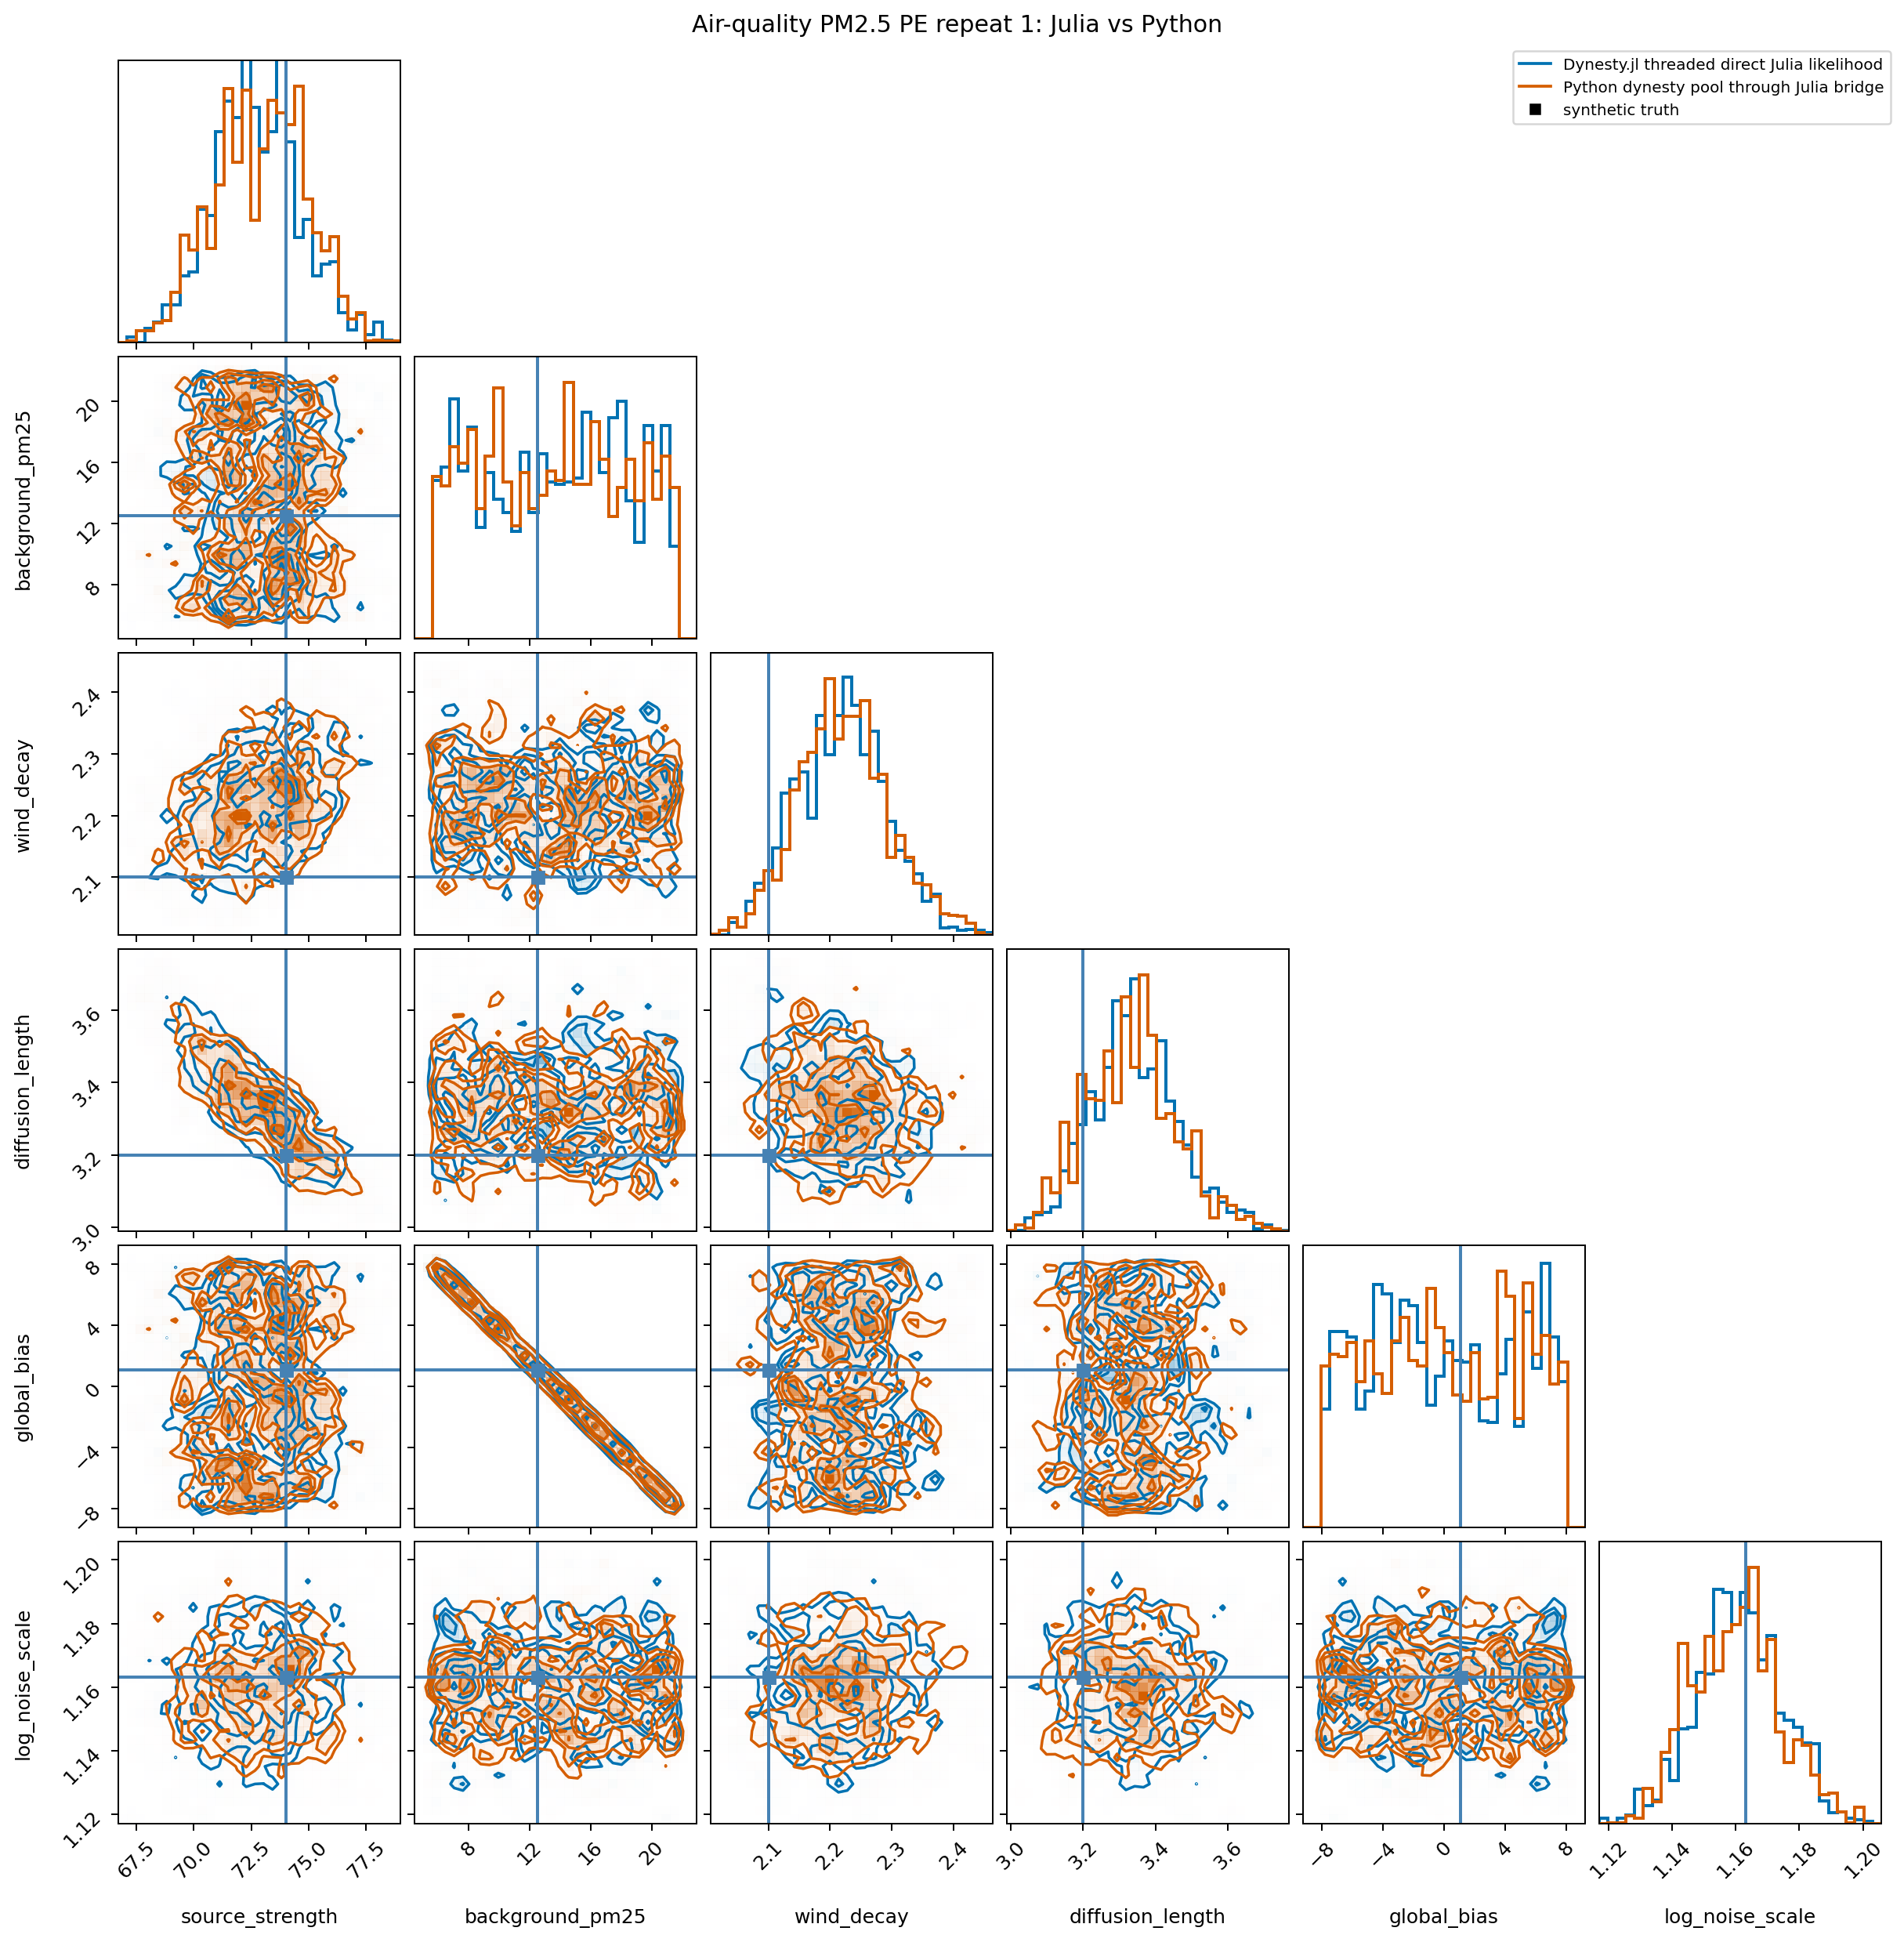
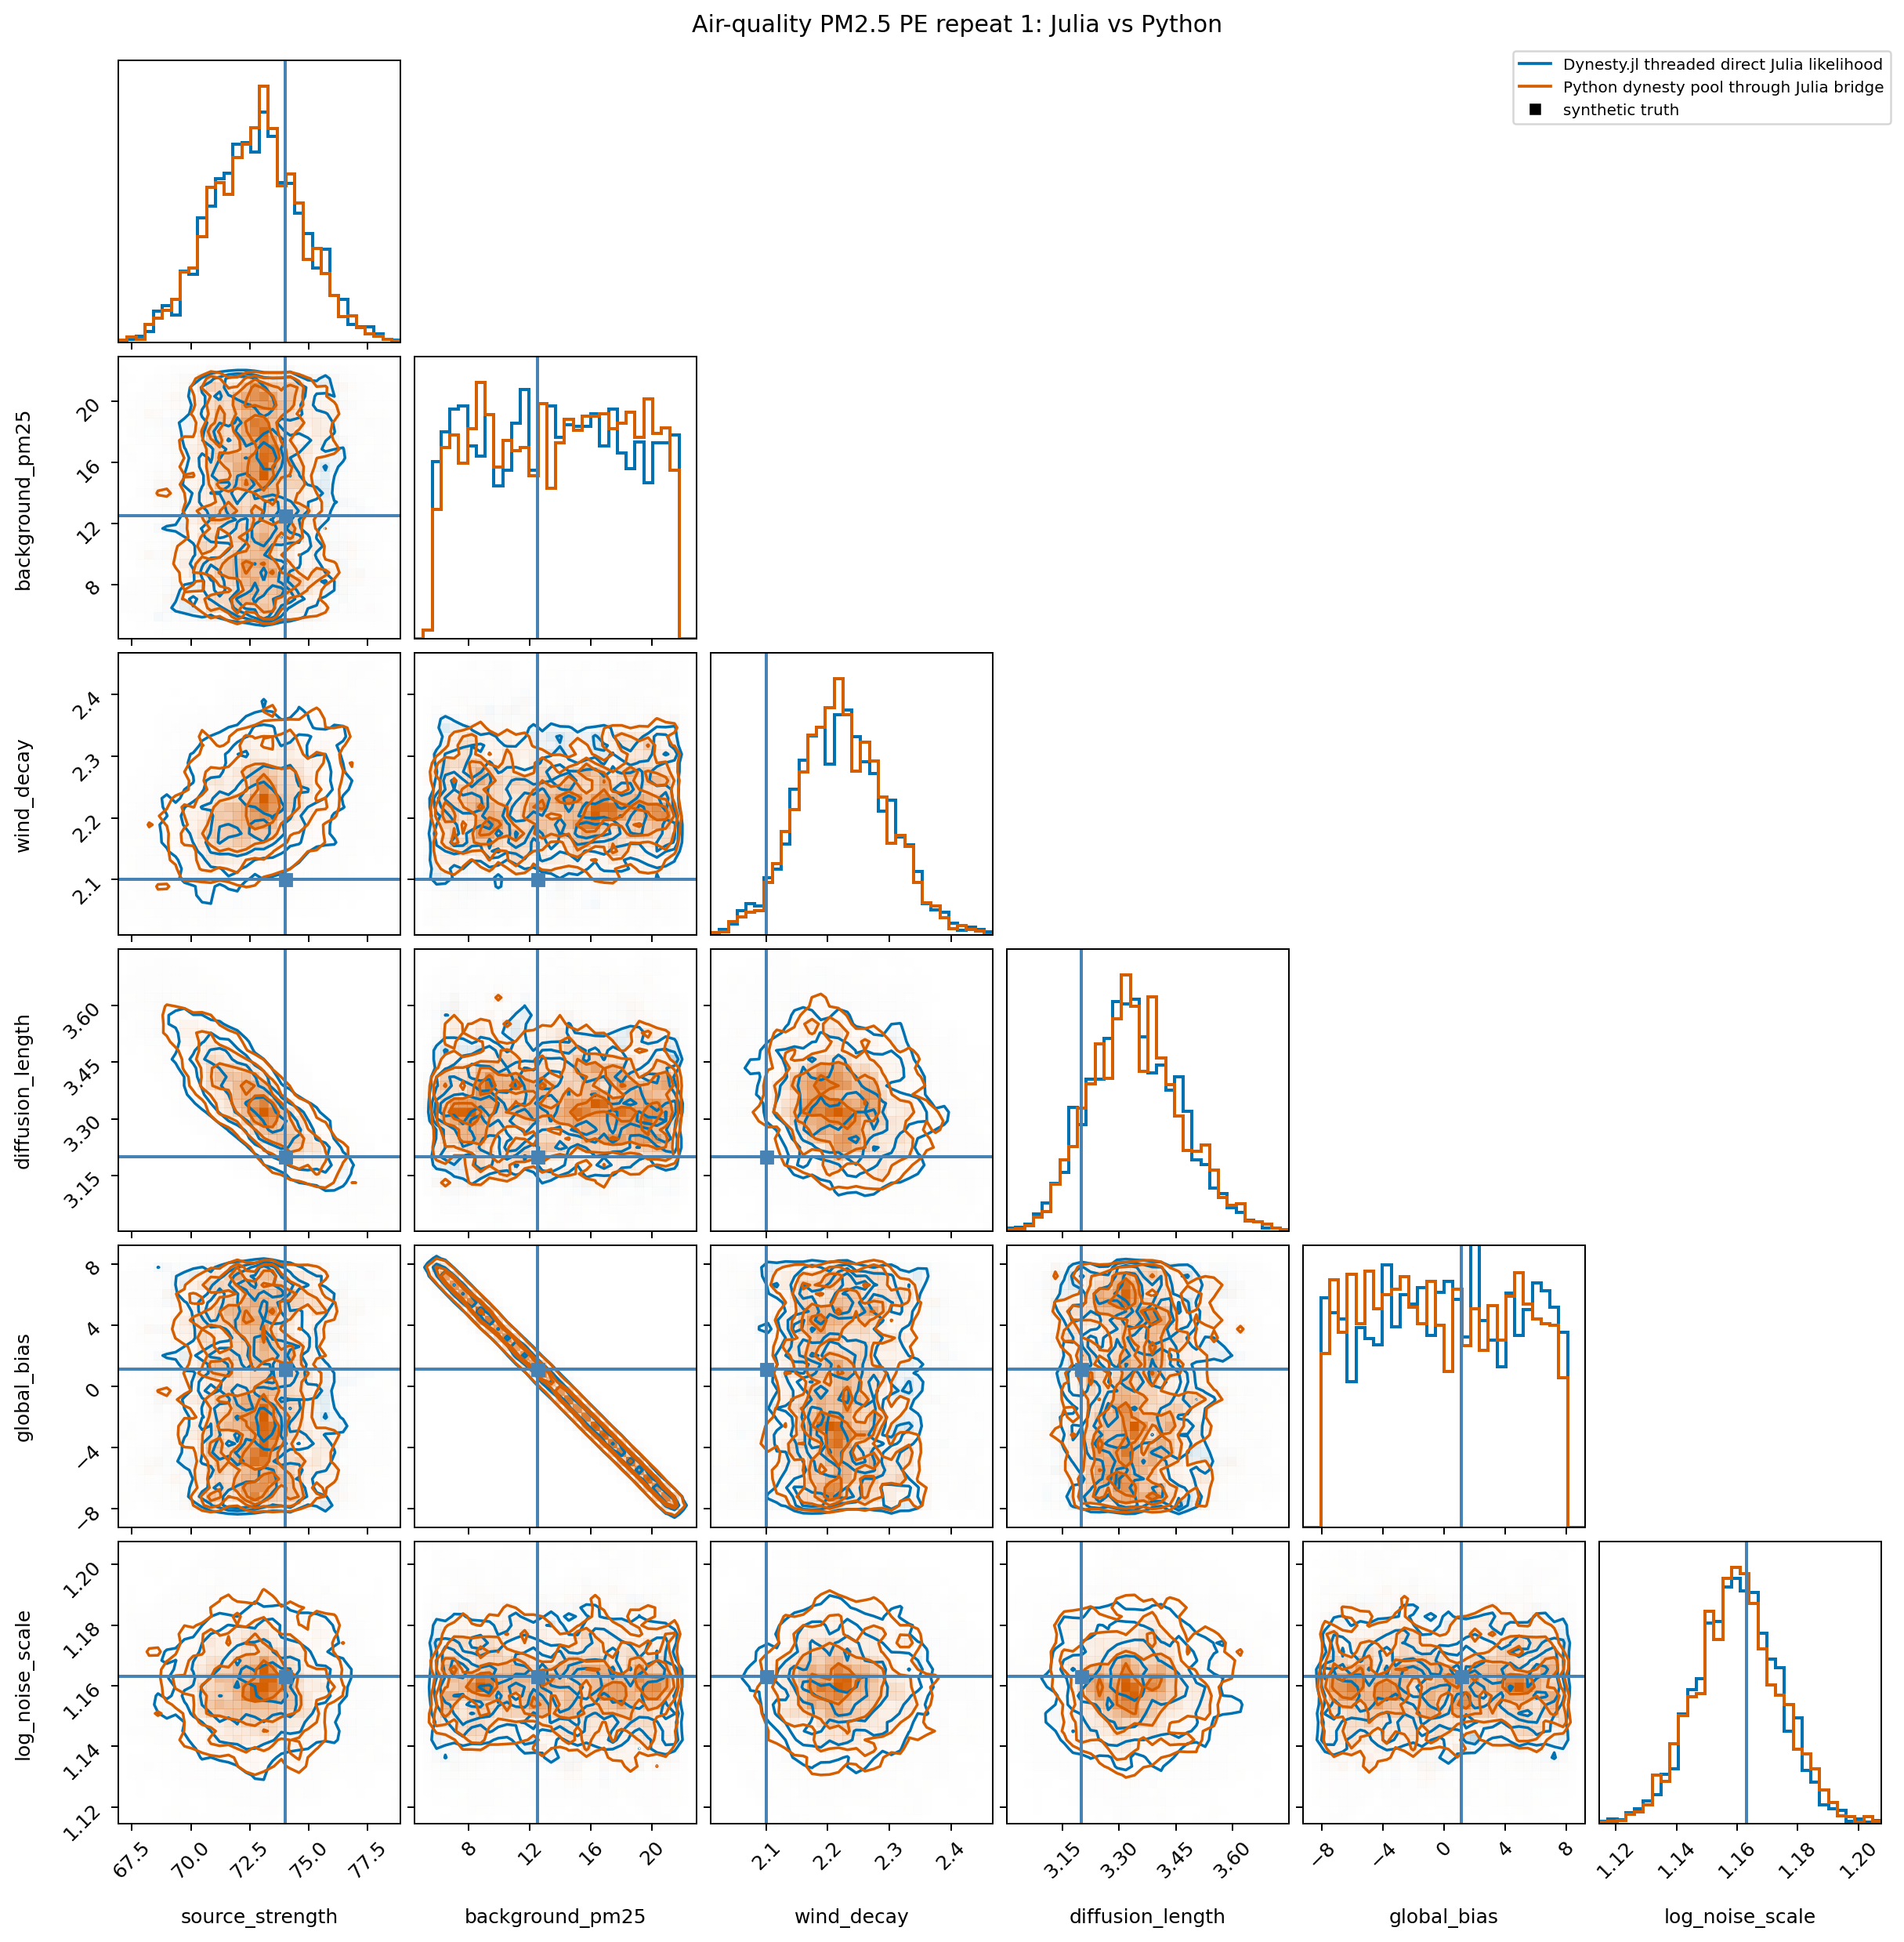
Update air-quality PE formal results

diff --git a/docs/test_report/main.tex b/docs/test_report/main.tex
@@ -37,7 +37,7 @@
 \maketitle
 
 \begin{abstract}
-本报告汇总了当前 \code{Dynesty.jl} 工作树在 Julia 默认测试套件、示例脚本、parallel map backend、Python fixture 兼容性、benchmark runner、Python 脚本语法检查、formal parallel cost benchmark 审计、真实空气质量 PE smoke benchmark，以及 LaTeX 编译链路上的验证结果。常规 Julia 测试通过 \code{julia --project=. -e 'using Pkg; Pkg.test()'} 全量执行并通过；formal parallel cost benchmark 复用已经完成的 \code{examples/output/parallel_cost_compare} 输出，审计确认其为 \code{mode == "formal"}、18 个 run 全部 \code{ok}、9 个 \code{corner_overlay} posterior overlay plot 全部 \code{ok}，且所有 run 均使用 \code{/usr/bin/time -v} 并记录 process-tree RSS/PSS 内存字段。新增空气质量 benchmark 使用 synthetic PM2.5 sensor calibration/source-strength inverse problem，likelihood 仅在 Julia 中实现，Julia runner 直接调用该 likelihood，Python dynesty 通过 PyJulia bridge 调用同一个 Julia likelihood；当前环境缺失 \code{/usr/bin/time}，因此空气质量 formal benchmark gate 未满足，但 0.01s 量级 likelihood smoke 已完成并生成 posterior overlay 图。
+本报告汇总了当前 \code{Dynesty.jl} 工作树在 Julia 默认测试套件、示例脚本、parallel map backend、Python fixture 兼容性、benchmark runner、Python 脚本语法检查、formal parallel cost benchmark 审计、真实空气质量 PE documented scaled formal benchmark，以及 LaTeX 编译链路上的验证结果。常规 Julia 测试通过 \code{julia --project=. -e 'using Pkg; Pkg.test()'} 全量执行并通过；formal parallel cost benchmark 复用已经完成的 \code{examples/output/parallel_cost_compare} 输出，审计确认其为 \code{mode == "formal"}、18 个 run 全部 \code{ok}、9 个 \code{corner_overlay} posterior overlay plot 全部 \code{ok}，且所有 run 均使用 \code{/usr/bin/time -v} 并记录 process-tree RSS/PSS 内存字段。新增空气质量 benchmark 使用 synthetic PM2.5 sensor calibration/source-strength inverse problem，likelihood 仅在 Julia 中实现，Julia runner 直接调用该 likelihood，Python dynesty 通过 PyJulia bridge 调用同一个 Julia likelihood；当前环境通过临时 mount namespace 暴露 GNU \code{/usr/bin/time -v}，完成 \code{nlive=500}、\code{dlogz=0.08}、2 repeats、31 workers 的 documented scaled formal run，并生成 posterior overlay 图。
 \end{abstract}
 
 \tableofcontents
@@ -63,8 +63,8 @@ Python & \code{3.9.18}; executable: \pathcode{/home/czc/opt/miniconda3/bin/pytho
 \code{MKL_NUM_THREADS} & formal benchmark summary 记录为 \code{1}; 当前 shell 探针为 \code{1}。 \\
 Python dynesty source path & \pathcode{../dynesty/py}; 解析到 \pathcode{/home/czc/projects/working/dynesty/py}; 只读引用。 \\
 正式 parallel benchmark & Julia 31 threads vs Python 31 multiprocessing worker processes; \code{queue_size=31}, \code{nlive=1500}, \code{dlogz=0.02}。 \\
-空气质量 PE smoke & Julia 31 threads direct Julia likelihood vs Python dynesty 4 worker processes through PyJulia bridge; \code{queue_size=4}, \code{nlive=60}, \code{dlogz=0.8}; direct Julia likelihood median 约 \code{0.0091s}。 \\
-当前 \code{/usr/bin/time} & 当前主机 \code{/usr/bin/time} 与 \code{/bin/time} 均不存在；\code{extra/time 1.10-1} 未安装，\code{sudo} 需要密码，空气质量 formal gate 因此 blocked。 \\
+空气质量 PE scaled formal & Julia 31 threads direct Julia likelihood vs Python dynesty 31 worker processes through PyJulia bridge; \code{queue_size=31}, \code{nlive=500}, \code{dlogz=0.08}, 2 repeats; direct Julia likelihood median 约 \code{0.0091s}。 \\
+当前 \code{/usr/bin/time} & 系统全局 \code{/usr/bin/time} 与 \code{/bin/time} 不存在；本次空气质量 formal run 在临时 mount namespace 中把编译的 GNU time 暴露为 \code{/usr/bin/time}，未修改系统 \code{/usr/bin}。 \\
 \bottomrule
 \end{tabularx}
 \caption{测试与 benchmark 环境摘要。}
@@ -119,15 +119,15 @@ Python py\_compile &
 \end{tabular}
 & \statusok & 未单独计时 & 无输出，exit code 0；未保留 \code{__pycache__}。 \\
 Formal benchmark audit & 读取并审计 \pathcode{examples/output/parallel_cost_compare/summary.json} & \statusok & 未单独计时 & \code{mode=formal}; 18/18 run ok; 9/9 plot ok; \code{corner_overlay}; 全部使用 \code{/usr/bin/time -v}; RSS/PSS 字段存在。 \\
-Air-quality PE smoke &
+Air-quality PE scaled formal &
 \begin{tabular}[t]{@{}l@{}}
+\cmd{/tmp/dynesty-air-quality-time-src/with-gnu-time.sh}\\
 \cmd{julia --project=. benchmark/air_quality_pe_compare.jl}\\
-\cmd{--mode smoke --allow-missing-usr-time}\\
-\cmd{--smoke-nproc 4 --smoke-queue-size 4}\\
-\cmd{--smoke-nlive 60 --smoke-dlogz 0.8}\\
+\cmd{--mode formal --repeats 2 --nlive 500 --dlogz 0.08}\\
+\cmd{--queue-size 31 --nproc 31}\\
 \cmd{--work-repeats 64 --calibration-trials 5}
 \end{tabular}
-& \statusok & Julia 62.59s; Python 126.15s & Python dynesty 通过 PyJulia bridge 调用同一个 Julia likelihood；posterior overlay 生成成功；\code{/usr/bin/time -v} 因工具缺失未使用。 \\
+& \statusok & 4 runs & Python dynesty 通过 PyJulia bridge 调用同一个 Julia likelihood；2 张 posterior overlay 生成成功；所有 run 均使用 \code{/usr/bin/time -v} 并记录 RSS/PSS。 \\
 LaTeX compile check &
 \begin{tabular}[t]{@{}l@{}}
 \cmd{latexmk -xelatex}\\
@@ -231,13 +231,13 @@ RSS 与 PSS 的口径不同。RSS（Resident Set Size）按进程统计驻留物
 
 likelihood 是唯一 canonical implementation：\code{examples/air_quality_likelihood.jl} 中的 Julia \code{AirQualityPE.air_quality_loglikelihood}。Julia \code{Dynesty.jl} runner 直接调用该 Julia likelihood；Python dynesty runner 从只读 \pathcode{../dynesty/py} 导入 Python dynesty，并通过 Python-Julia bridge 调用同一个 Julia likelihood，没有实现 Python duplicate likelihood。当前环境没有 \code{juliacall}，可用 fallback 为 PyJulia；由于本机 Python/PyCall 组合需要 \code{compiled_modules=false}，runner 在 metadata 中记录 \code{bridge_kind=pyjulia}、\code{bridge_compiled_modules=false}，并且必须先初始化 Julia bridge 再导入 \code{numpy}/\code{dynesty}，否则 PyJulia 会在加载 \code{PyCall} 时失败。
 
-本节结果来自当前可运行 smoke/scaled run，而不是完整 formal gate。配置为 \code{nlive=60}、\code{dlogz=0.8}、\code{queue_size=4}、Julia \code{--threads=31}、Python \code{nproc=4}，并设置 \code{OPENBLAS_NUM_THREADS=1}、\code{OMP_NUM_THREADS=1}、\code{MKL_NUM_THREADS=1}。likelihood calibration 选择 \code{work_repeats=64}，Julia direct median 为 \code{0.00908s}，满足 0.005--0.02 秒目标区间；Python bridge median 为 \code{0.00907s}。当前主机没有 \code{/usr/bin/time} 或 \code{/bin/time}，因此 \code{time_command_available=false}、\code{used_usr_bin_time=false}，CPU seconds 与 \code{time_percent_cpu} 字段不可用。Linux \code{/proc} process-tree monitor 仍记录了 RSS/PSS peak，采样间隔为 \code{0.2s}。
+本节结果来自 documented scaled formal run。配置为 \code{nlive=500}、\code{dlogz=0.08}、\code{repeats=2}、\code{queue_size=31}、Julia \code{--threads=31}、Python \code{nproc=31}，并设置 \code{OPENBLAS_NUM_THREADS=1}、\code{OMP_NUM_THREADS=1}、\code{MKL_NUM_THREADS=1}。likelihood calibration 选择 \code{work_repeats=64}，Julia direct median 为 \code{0.00906s}，满足 0.005--0.02 秒目标区间；Python bridge median 中位数为 \code{0.00897s}。全局系统缺失 \code{/usr/bin/time}，因此本次 run 在临时 mount namespace 中把编译的 GNU time 暴露为 \code{/usr/bin/time}；benchmark metadata 记录 \code{time_command_available=true}、\code{used_usr_bin_time=true}。Linux \code{/proc} process-tree monitor 同时记录了 RSS/PSS peak，采样间隔为 \code{0.2s}。
 
 \begin{table}[H]
 \centering
 \small
 \input{tables/air_quality_audit.tex}
-\caption{真实空气质量 PE benchmark 当前 evidence 审计。完整 formal gate 需要 \code{/usr/bin/time -v} 可用并重跑。}
+\caption{真实空气质量 PE documented scaled formal benchmark 审计。}
 \label{tab:air-quality-audit}
 \end{table}
 
@@ -246,7 +246,7 @@ likelihood 是唯一 canonical implementation：\code{examples/air_quality_likel
 \centering
 \scriptsize
 \resizebox{\linewidth}{!}{\input{tables/air_quality_runs.tex}}
-\caption{真实空气质量 PE smoke run 结果。wall time 为 runner 内部墙钟；当前环境缺少 \code{/usr/bin/time -v}，因此 CPU utilization 为空。}
+\caption{真实空气质量 PE documented scaled formal run 结果。wall time 和 CPU utilization 来自 \code{/usr/bin/time -v}。}
 \label{tab:air-quality-runs}
 \end{table}
 \end{landscape}
@@ -254,19 +254,26 @@ likelihood 是唯一 canonical implementation：\code{examples/air_quality_likel
 \begin{figure}[H]
 \centering
 \includegraphics[width=0.95\textwidth]{figures/air_quality_repeat1_julia_vs_python.png}
-\caption{真实空气质量 PM2.5 PE posterior overlay。蓝色为 Dynesty.jl threaded direct Julia likelihood；橙色为 Python dynesty pool through Julia bridge；黑色 marker 为 synthetic truth。}
+\caption{真实空气质量 PM2.5 PE repeat 1 posterior overlay。蓝色为 Dynesty.jl threaded direct Julia likelihood；橙色为 Python dynesty pool through Julia bridge；黑色 marker 为 synthetic truth。}
 \label{fig:air-quality-r1}
 \end{figure}
 
-当前 smoke 的 Julia run 为 \code{status=ok}，wall time \code{62.59s}，process-tree peak RSS/PSS 为 \code{869,800/758,360 KB}，\code{nsamples=2438}，\code{logz=-6949.9101}，\code{logzerr=0.5834}。Python run 为 \code{status=ok}，wall time \code{126.15s}，process-tree peak RSS/PSS 为 \code{3,373,948/2,455,557 KB}，\code{nsamples=2499}，\code{logz=-6950.5337}，\code{logzerr=0.6031}。Python wall time 包含 PyJulia main process 和 worker process initialization；主进程 bridge initialization metadata 记录为 \code{31.08s}。RSS/PSS 差异受 Python multiprocessing、每个 worker 独立 Julia runtime、共享页计数和当前 smoke 配置影响，不能外推为完整 31-worker formal memory 结论。
+\begin{figure}[H]
+\centering
+\includegraphics[width=0.95\textwidth]{figures/air_quality_repeat2_julia_vs_python.png}
+\caption{真实空气质量 PM2.5 PE repeat 2 posterior overlay。蓝色为 Dynesty.jl threaded direct Julia likelihood；橙色为 Python dynesty pool through Julia bridge；黑色 marker 为 synthetic truth。}
+\label{fig:air-quality-r2}
+\end{figure}
+
+Julia 两次 run 均为 \code{status=ok}，wall time 为 \code{24.33s} 和 \code{25.88s}，process-tree peak PSS 为 \code{744,111 KB} 和 \code{755,969 KB}，\code{nsamples} 分别为 \code{11488} 和 \code{11447}。Python 两次 run 均为 \code{status=ok}，wall time 为 \code{23.68s} 和 \code{39.94s}，process-tree peak PSS 为 \code{16,206,833 KB} 和 \code{16,694,658 KB}，\code{nsamples} 分别为 \code{11312} 和 \code{11252}。Python wall time 包含 PyJulia main process 和 worker process initialization；主进程 bridge initialization metadata 记录为 \code{30.59s} 和 \code{42.96s}。RSS/PSS 差异受 Python multiprocessing、每个 worker 独立 Julia runtime、共享页计数和当前 PyJulia fallback 配置影响。
 
 \section{结论与剩余风险}
 
 本次常规 Julia package/test suite 全量通过，且 \code{test/runtests.jl} 覆盖了 parallel、examples、Python fixtures、plotting helpers 和 Aqua quality checks。benchmark runner include check 与 Python \code{py_compile} 也通过。formal benchmark 没有重跑，而是复用已有 \code{examples/output/parallel_cost_compare} 输出；审计确认该输出完整、一致，并且记录了 \code{/usr/bin/time -v} 与 process-tree RSS/PSS 指标。
 
-posterior overlay 图在 cheap、medium、heavy 三种 cost 的 3 次 repeat 上全部生成成功；代表图和附录列表显示 Julia/Python 后验叠加比较已经可用于可视化层面的一致性检查。新增空气质量 PE smoke 也已生成 Julia/Python posterior overlay，且 Python dynesty 确认通过 PyJulia bridge 调用同一个 Julia likelihood。性能方面，当前 parallel cost benchmark 下 Python multiprocessing 在 cheap likelihood 上 wall time 更低；当 likelihood cost 提升到 medium/heavy 后，Julia threaded 的 wall time 中位数更低。空气质量 smoke 中 Julia wall time 低于 Python PyJulia path，但该结论包含 bridge initialization 和小规模 nlive/queue settings，正式结论仍需 \code{/usr/bin/time -v} 恢复后重跑 formal benchmark。
+posterior overlay 图在 cheap、medium、heavy 三种 cost 的 3 次 repeat 上全部生成成功；代表图和附录列表显示 Julia/Python 后验叠加比较已经可用于可视化层面的一致性检查。新增空气质量 PE documented scaled formal 也已生成 2 张 Julia/Python posterior overlay，且 Python dynesty 确认通过 PyJulia bridge 调用同一个 Julia likelihood。性能方面，当前 parallel cost benchmark 下 Python multiprocessing 在 cheap likelihood 上 wall time 更低；当 likelihood cost 提升到 medium/heavy 后，Julia threaded 的 wall time 中位数更低。空气质量 benchmark 中 Julia median wall time 为 \code{25.10s}，Python PyJulia path median wall time 为 \code{31.81s}，但该结论包含 PyJulia initialization、31 个 worker runtime 和当前 synthetic model 配置。
 
-剩余风险包括：nested sampling 与 posterior visualization 受随机性和有限 repeat 数影响；性能结论依赖 AMD Ryzen 9 5950X、当前 Julia/Python/BLAS/线程设置和操作系统调度；Python multiprocessing memory accounting 的 RSS/PSS 解释依赖 Linux \code{/proc} 口径；空气质量 formal gate 当前被缺失 \code{/usr/bin/time -v} 阻塞，尚未获得 31-worker formal 口径；PyJulia fallback 使用 \code{compiled_modules=false}，初始化开销和 worker memory 与 \code{juliacall} 或 \code{python-jl} 路径可能不同；扩展测试 flags 未在本次默认报告中打开；future benchmark 输出若更新，应重新运行 \code{docs/test_report/generate_assets.py} 并重新编译 PDF。
+剩余风险包括：nested sampling 与 posterior visualization 受随机性和有限 repeat 数影响；性能结论依赖 AMD Ryzen 9 5950X、当前 Julia/Python/BLAS/线程设置和操作系统调度；Python multiprocessing memory accounting 的 RSS/PSS 解释依赖 Linux \code{/proc} 口径；空气质量 benchmark 是 prompt 允许的 documented scaled formal，而不是 800--1500 nlive、3 repeats 的完整目标规模；PyJulia fallback 使用 \code{compiled_modules=false}，初始化开销和 worker memory 与 \code{juliacall} 或 \code{python-jl} 路径可能不同；扩展测试 flags 未在本次默认报告中打开；future benchmark 输出若更新，应重新运行 \code{docs/test_report/generate_assets.py} 并重新编译 PDF。
 
 \appendix
 \section{全部 Benchmark Run}

diff --git a/docs/test_report/generate_assets.py b/docs/test_report/generate_assets.py
@@ -142,7 +142,7 @@ def audit_summary(data: dict) -> dict:
 
 def write_csv(path: Path, rows: list[dict], fields: list[str]) -> None:
     with path.open("w", newline="", encoding="utf-8") as handle:
-        writer = csv.DictWriter(handle, fieldnames=fields)
+        writer = csv.DictWriter(handle, fieldnames=fields, lineterminator="\n")
         writer.writeheader()
         writer.writerows(rows)
 
@@ -370,12 +370,18 @@ def audit_air_quality_summary(data: dict) -> dict:
 
 
 def write_air_quality_audit_table(audit: dict) -> None:
+    mode_status = "ok" if audit["mode"] == "formal" else "degraded"
+    time_status = (
+        "ok"
+        if audit["time_command_available"] is True and audit["used_usr_bin_time"] is True
+        else "blocked"
+    )
     rows = [
-        {"check": "mode", "expected": "formal for final gate", "observed": audit["mode"], "status": "degraded"},
+        {"check": "mode", "expected": "formal for final gate", "observed": audit["mode"], "status": mode_status},
         {"check": "runs", "expected": "Julia/Python ok", "observed": f"{audit['run_ok']}/{audit['runs']} ok", "status": "ok"},
         {"check": "plots", "expected": "overlay ok", "observed": f"{audit['plot_ok']}/{audit['plots']} ok", "status": "ok"},
         {"check": "overlay PNG", "expected": "present", "observed": f"{audit['plot_files_present']} files", "status": "ok"},
-        {"check": "/usr/bin/time -v", "expected": "available and used", "observed": f"available={audit['time_command_available']}, used={audit['used_usr_bin_time']}", "status": "blocked"},
+        {"check": "/usr/bin/time -v", "expected": "available and used", "observed": f"available={audit['time_command_available']}, used={audit['used_usr_bin_time']}", "status": time_status},
         {"check": "direct likelihood median", "expected": "0.005--0.02 s", "observed": fmt_float(audit["direct_median_seconds"], 5), "status": "ok"},
         {"check": "work repeats", "expected": "recorded", "observed": audit["work_repeats"], "status": "ok"},
     ]

diff --git a/docs/test_report/tables/air_quality_audit.tex b/docs/test_report/tables/air_quality_audit.tex
@@ -2,12 +2,12 @@
 \toprule
 check & expected & observed & status \\
 \midrule
-mode & formal for final gate & smoke & degraded \\
-runs & Julia/Python ok & 2/2 ok & ok \\
-plots & overlay ok & 1/1 ok & ok \\
-overlay PNG & present & 1 files & ok \\
-/usr/bin/time -v & available and used & available=False, used=False & blocked \\
-direct likelihood median & 0.005--0.02 s & 0.00908 & ok \\
+mode & formal for final gate & formal & ok \\
+runs & Julia/Python ok & 4/4 ok & ok \\
+plots & overlay ok & 2/2 ok & ok \\
+overlay PNG & present & 2 files & ok \\
+/usr/bin/time -v & available and used & available=True, used=True & ok \\
+direct likelihood median & 0.005--0.02 s & 0.00906 & ok \\
 work repeats & recorded & 64 & ok \\
 \bottomrule
 \end{tabular}

diff --git a/docs/test_report/tables/air_quality_runs.tex b/docs/test_report/tables/air_quality_runs.tex
@@ -2,7 +2,9 @@
 \toprule
 impl & status & wall s & RSS KB & PSS KB & workers & bridge & Julia like s & bridge like s & nsamples & logz & logzerr \\
 \midrule
-julia & ok & 62.59 & 869,800 & 758,360 & 31 & -- & 0.00898 & -- & 2,438 & -6949.9101 & 0.5834 \\
-python & ok & 126.15 & 3,373,948 & 2,455,557 & 4 & pyjulia & -- & 0.00907 & 2,499 & -6950.5337 & 0.6031 \\
+julia & ok & 24.33 & 856,988 & 744,111 & 31 & -- & 0.00894 & -- & 11,488 & -6950.7386 & 0.2184 \\
+julia & ok & 25.88 & 868,236 & 755,969 & 31 & -- & 0.00918 & -- & 11,447 & -6950.5997 & 0.2176 \\
+python & ok & 23.68 & 22,909,368 & 16,206,833 & 31 & pyjulia & -- & 0.00885 & 11,312 & -6950.3518 & 0.2169 \\
+python & ok & 39.94 & 23,402,288 & 16,694,658 & 31 & pyjulia & -- & 0.00909 & 11,252 & -6950.2700 & 0.2162 \\
 \bottomrule
 \end{tabular}

diff --git a/docs/test_report/tables/air_quality_plot_index.tex b/docs/test_report/tables/air_quality_plot_index.tex
@@ -2,6 +2,7 @@
 \toprule
 rep & file & method & status & Julia n & Python n & Julia logz & Python logz \\
 \midrule
-1 & air\_quality\_repeat1\_julia\_vs\_python.png & corner\_overlay & ok & 2,438 & 2,499 & -6949.91013 & -6950.53368 \\
+1 & air\_quality\_repeat1\_julia\_vs\_python.png & corner\_overlay & ok & 11,488 & 11,312 & -6950.73864 & -6950.35180 \\
+2 & air\_quality\_repeat2\_julia\_vs\_python.png & corner\_overlay & ok & 11,447 & 11,252 & -6950.59970 & -6950.27003 \\
 \bottomrule
 \end{tabular}

diff --git a/docs/test_report/README.md b/docs/test_report/README.md
@@ -100,18 +100,21 @@ cd docs/test_report
 latexmk -xelatex -interaction=nonstopmode -halt-on-error main.tex
 ```
 
-空气质量 PE benchmark 的当前报告资产来自 smoke/scaled run，因为当前主机缺失 `/usr/bin/time` 和 `/bin/time`。恢复 GNU time 后，在仓库根目录运行完整或 scaled formal：
+空气质量 PE benchmark 的当前报告资产来自 documented scaled formal run。全局 GNU time 可用时，在仓库根目录运行：
 
 ```sh
 /usr/bin/time -v true
-julia --project=. benchmark/air_quality_pe_compare.jl --mode formal --resume
-```
-
-如果 Python bridge initialization 或 31 worker processes 过慢，可按 benchmark prompt 降级到 documented scaled formal，例如：
-
-```sh
 julia --project=. benchmark/air_quality_pe_compare.jl --mode formal \
   --repeats 2 --nlive 500 --dlogz 0.08 --queue-size 31 --nproc 31 --resume
+```
+
+当前主机全局缺失 `/usr/bin/time` 和 `/bin/time`；本次报告为了满足 runner 的 `/usr/bin/time -v` 口径，在临时 mount namespace 中把 `/tmp` 下编译的 GNU time 暴露为 `/usr/bin/time`，未修改系统 `/usr/bin`。实际运行命令为：
+
+```sh
+/tmp/dynesty-air-quality-time-src/with-gnu-time.sh \
+  julia --project=. benchmark/air_quality_pe_compare.jl --mode formal \
+  --repeats 2 --nlive 500 --dlogz 0.08 --queue-size 31 --nproc 31 \
+  --work-repeats 64 --calibration-trials 5
 ```
 
 当前环境使用 PyJulia fallback；metadata 会记录 `bridge_kind=pyjulia` 和 `bridge_compiled_modules=false`。不要把 Python runner 改成 Python duplicate likelihood。
@@ -124,7 +127,7 @@ julia --project=. benchmark/air_quality_pe_compare.jl --mode formal \
 - `python3 -m py_compile examples/air_quality_pe_python.py benchmark/air_quality_corner_overlay.py`
 - `julia --project=. -e 'include("examples/air_quality_likelihood.jl"); println("air quality likelihood ok")'`
 - `julia --project=. -e 'include("benchmark/air_quality_pe_compare.jl"); println("air quality runner ok")'`
-- `julia --project=. benchmark/air_quality_pe_compare.jl --mode smoke --allow-missing-usr-time --smoke-nproc 4 --smoke-queue-size 4 --smoke-nlive 60 --smoke-dlogz 0.8 --work-repeats 64 --calibration-trials 5`
+- `/tmp/dynesty-air-quality-time-src/with-gnu-time.sh julia --project=. benchmark/air_quality_pe_compare.jl --mode formal --repeats 2 --nlive 500 --dlogz 0.08 --queue-size 31 --nproc 31 --work-repeats 64 --calibration-trials 5`
 - formal benchmark audit via `docs/test_report/generate_assets.py`
 - `latexmk -xelatex -interaction=nonstopmode -halt-on-error main.tex`
 - `git diff --check`